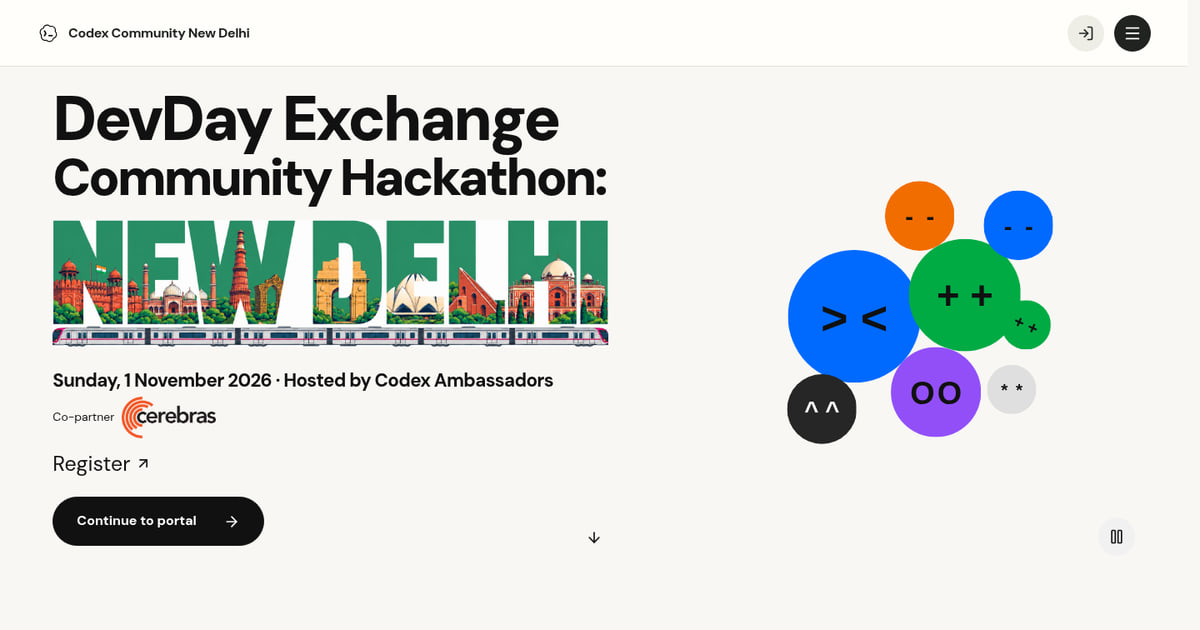
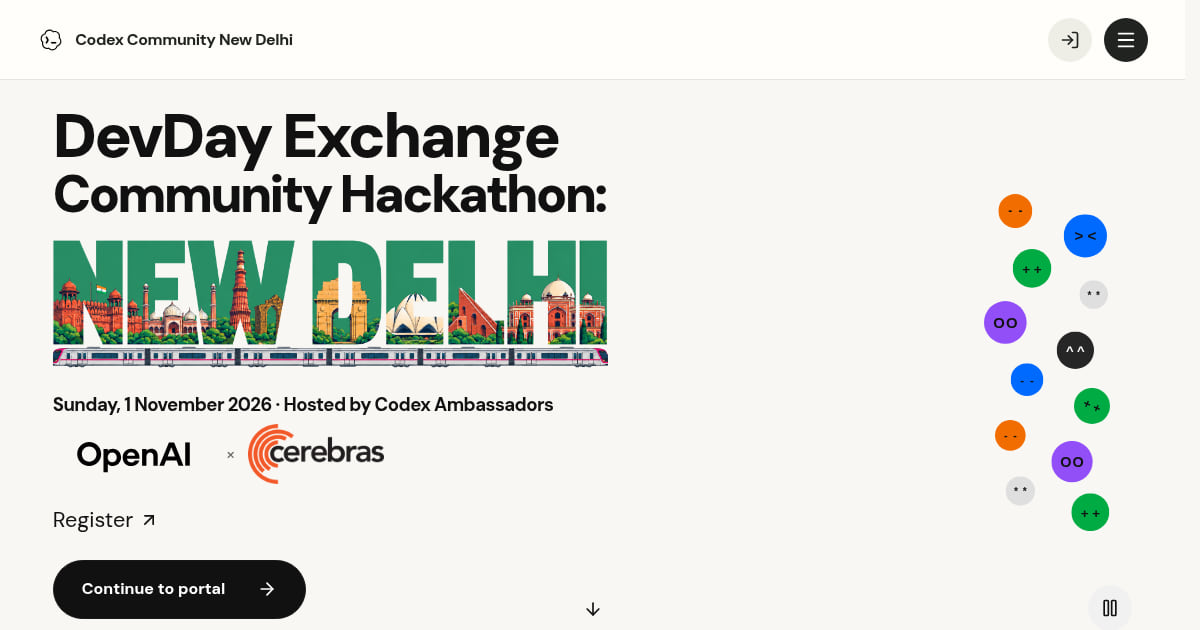
Refresh Home social image from the current anonymous hero

diff --git a/docs/HOME_OG_REFRESH.md b/docs/HOME_OG_REFRESH.md
@@ -1,0 +1,11 @@
+# Current Home social image
+
+`public/og/devday-new-delhi-home.jpg` is an actual native1200×630 anonymous Home viewport captured from UI source `4e09abe3c24f10a3931c0073218523789cdc84cb` (capture checkout `4988c4c`, whose later change was documentation only). It includes the current OpenAI × Cerebras row and narrow twelve-expression desktop rail.
+
+The frontend ran Webpack development mode over real local HTTPS with `PORTAL_LOCAL_TEST` unset and the existing origin/TLS guards intact. Its separate backend was a fresh anonymous synthetic fixture with external fetch disabled. No hosted requests, account cookies, rehearsal banner, browser chrome, DOM hiding, crop, resize, compositing or generated artwork were used.
+
[1 lines of base64/hex data omitted]
+
[1 lines of base64/hex data omitted]
+
+Capture, encoding and served-asset receipts are under `/tmp/ddd-home-og/`. The earlier `scripts/qa-actual-hero-og-encode.mjs` uses the historical1440×756 screenshot; it is not the source for this refreshed image and must not be rerun to recreate the current asset.
